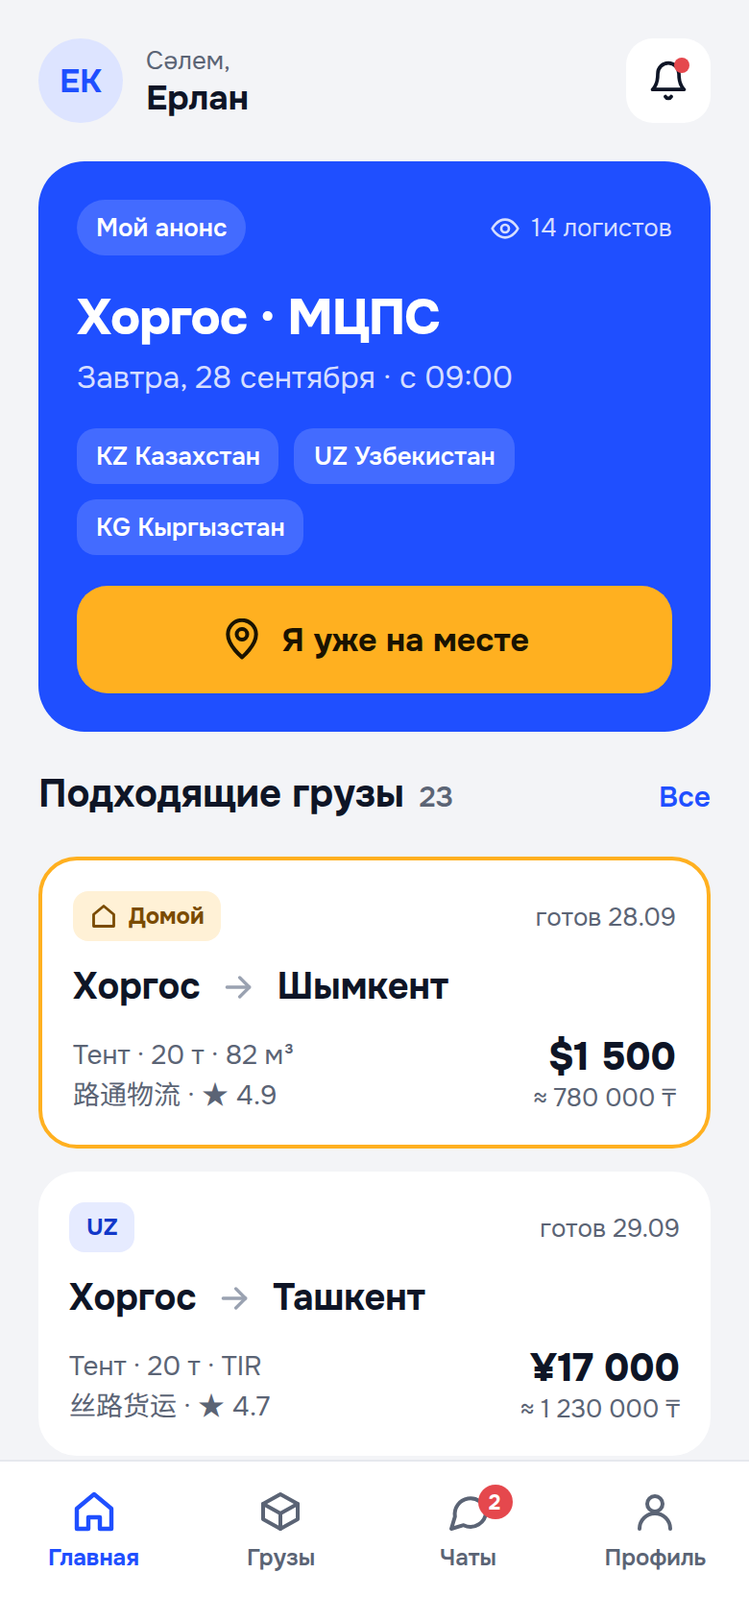
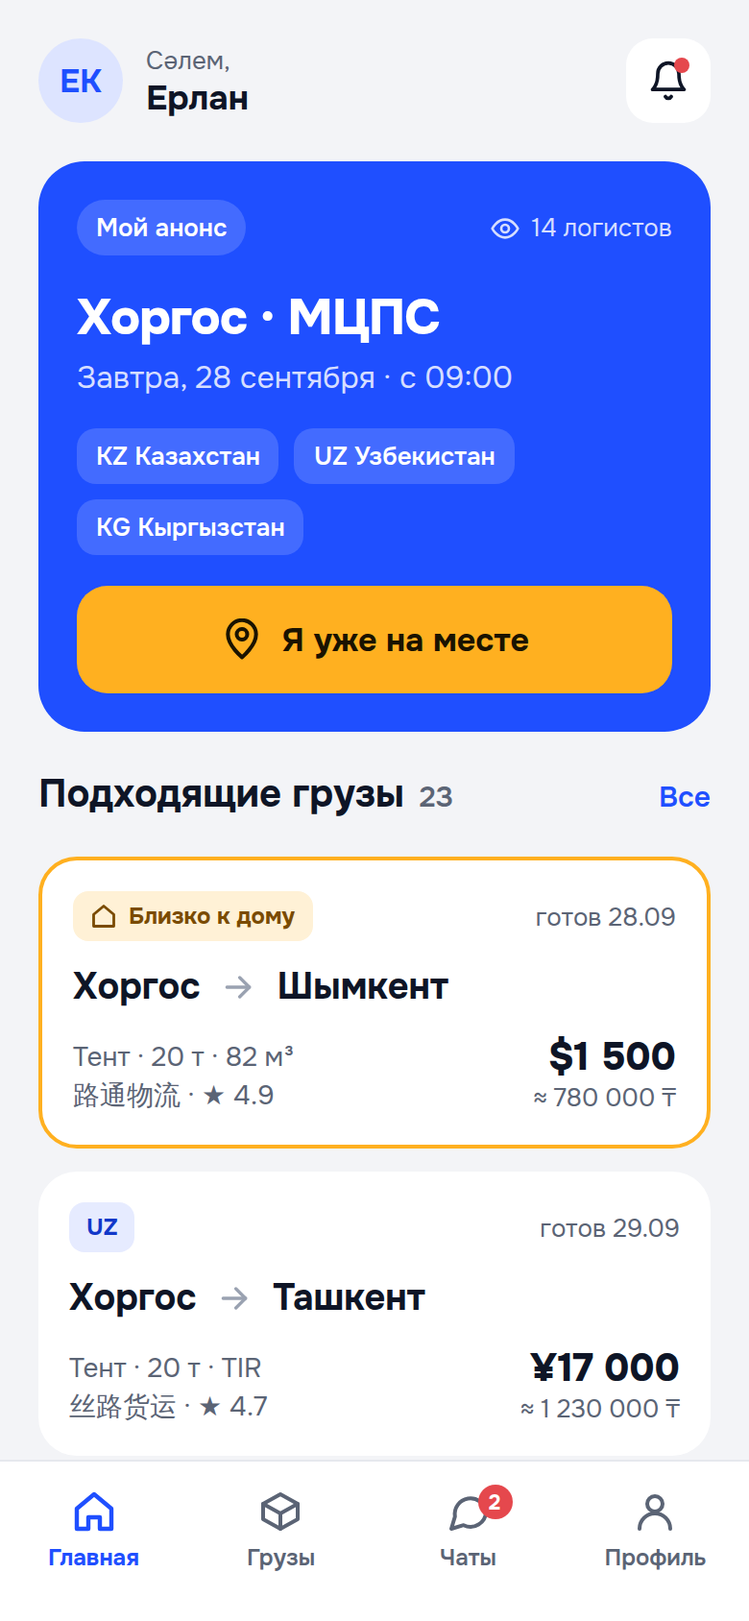
Rename feed section «Домой» → «Близко к дому» (ARB kk/ru/zh, docs, mockup 01)
Claude-Session: https://claude.ai/code/session_01Ff8oopsZvobH79mMVJKnFv

diff --git a/packages/lubao_core/lib/src/widgets/cargo_card.dart b/packages/lubao_core/lib/src/widgets/cargo_card.dart
@@ -32,10 +32,10 @@ class CargoCard extends StatelessWidget {
   /// "Цена всегда в валюте груза + пересчёт мелким шрифтом").
   final String? secondaryPriceLabel;
 
-  /// Плашка слева сверху — "Домой" или код страны (CountryCode).
+  /// Плашка слева сверху — "Близко к дому" или код страны (CountryCode).
   final Widget? badge;
 
-  /// Рамка accent — карточка "Домой" в ленте.
+  /// Рамка accent — карточка "Близко к дому" в ленте.
   final bool accentBorder;
 
   @override

diff --git a/docs/tasks/016-driver-feed-home.md b/docs/tasks/016-driver-feed-home.md
@@ -4,7 +4,7 @@
 
 ## Проблема (ревью 2026-10-04)
 - `GET /cargos` отдаёт **все** опубликованные грузы, сортировка — на клиенте (`sortCargoFeed`). С ростом числа грузов это медленно и тяжело для мобильного интернета на границе.
-- «Домой» считается по **стране**: для казахстанского водителя все грузы в Казахстан — «домой». Нужно — по **области** домашнего города **или ближе 200 км в той же стране** (решения 2026-10-04 и 2026-10-05).
+- «Близко к дому» считается по **стране**: для казахстанского водителя все грузы в Казахстан — «домой». Нужно — по **области** домашнего города **или ближе 200 км в той же стране** (решения 2026-10-04 и 2026-10-05).
 - Грузы с допусками, которых нет у водителя (ADR, TIR, разрешение РФ), не скрываются: у `Cargo` вообще нет поля «нужные допуски».
 - Не учитываются кузов и тоннаж водителя.
 - Вкладки водителя: Лента · Сделки · Профиль. По макету — **Главная · Грузы · Чаты · Профиль**; главной с анонсом (макет 01) и вкладки «Чаты» нет.
@@ -15,7 +15,7 @@
 1. `Cargo.requiredPermitIds` (допуски, нужные для груза) — логист отмечает при публикации.
 2. `GET /cargos/feed` для водителя (пагинация, 20 на страницу):
    - **скрыть**: грузы, требующие допусков, которых нет у водителя; кузов не совпадает с кузовом машины; вес груза больше грузоподъёмности;
-   - **секции**: 🏠 «Домой» (город назначения **в той же области**, что и домашний город водителя — `City.regionId`, **или в той же стране и ближе `homeRadiusKm` = 200 км** по прямой (haversine по `City.lat/lng`, только если координаты есть у обоих городов); если у груза указана только страна — не «Домой»; внутри секции ближние выше, затем дата готовности) → «Ваши страны» (`tripCountryIds` активного анонса, иначе страны профиля; `anyCountry` — все) → «Другие» (серым, внизу);
+   - **секции**: 🏠 «Близко к дому» (город назначения **в той же области**, что и домашний город водителя — `City.regionId`, **или в той же стране и ближе `homeRadiusKm` = 200 км** по прямой (haversine по `City.lat/lng`, только если координаты есть у обоих городов); если у груза указана только страна — не «Близко к дому»; внутри секции ближние выше, затем дата готовности) → «Ваши страны» (`tripCountryIds` активного анонса, иначе страны профиля; `anyCountry` — все) → «Другие» (серым, внизу);
    - внутри секции: дата готовности ↑, затем свежесть публикации;
    - в ответе — секция каждого груза и пересчёт цены в KZT (и в валюту, выбранную водителем, по умолчанию KZT) по курсу НБ РК (задача 018).
 2а. Координаты городов: заполнить `lat/lng` всем городам из `seed.ts` (сейчас пусто) — миграция данных, не только сид, чтобы существующие базы тоже получили координаты. Новый город при модерации (021) — админ указывает координаты (необязательно; без них работает только правило области). `app_settings.homeRadiusKm = 200` + поле в админке.
@@ -24,15 +24,18 @@
 ### Flutter
 4. Вкладки водителя: **Главная · Грузы · Чаты · Профиль** (макет 01).
 5. **Главная**: карточка анонса (из 015) + «Подходящие грузы · N» — первые 5 из ленты с секциями; «Все» → вкладка «Грузы».
-6. **Карточка груза** (`CargoCard`, макет 01): 🏠 «Домой» в янтарной рамке; маршрут крупно; кузов · вес · объём; компания + ★; цена крупно + «≈ … ₸».
+6. **Карточка груза** (`CargoCard`, макет 01): 🏠 «Близко к дому» в янтарной рамке; маршрут крупно; кузов · вес · объём; компания + ★; цена крупно + «≈ … ₸».
 7. **Вкладка «Чаты»**: список чатов водителя (задача 017), бейдж непрочитанных.
 8. Офлайн: последняя загруженная лента показывается без сети с пометкой «обновлено N мин назад».
 
 ## Готово, когда
 - Водитель без ADR не видит грузы, требующие ADR (тест API).
-- Водитель из Жаркента видит грузы в Жаркент и Талдыкорган (та же область) в секции «Домой», а груз в Алматы (~300 км, другой регион) — в «Ваших странах».
-- Водитель из Алматы видит «Домой» грузы в Каскелен и Талгар (другая область, < 200 км).
-- Водитель из Шымкента не видит «Домой» груз в Ташкент (другая страна, хотя ~120 км).
-- Город без координат: «Домой» работает по области, без ошибок.
+- Водитель из Жаркента видит грузы в Жаркент и Талдыкорган (та же область) в секции «Близко к дому», а груз в Алматы (~300 км, другой регион) — в «Ваших странах».
+- Водитель из Алматы видит «Близко к дому» грузы в Каскелен и Талгар (другая область, < 200 км).
+- Водитель из Шымкента не видит «Близко к дому» груз в Ташкент (другая страна, хотя ~120 км).
+- Город без координат: «Близко к дому» работает по области, без ошибок.
 - Лента открывается одной страницей ≤ 20 грузов, следующая — при прокрутке.
 - Главная и вкладки совпадают с макетом 01.
+
+
+> 2026-10-05: секция называется **«Близко к дому»** (kk «Үйге жақын», zh «离家近», en «Near home»), не «Домой». ARB уже обновлён.

diff --git a/docs/decisions.md b/docs/decisions.md
@@ -59,12 +59,12 @@
 Самостоятельная регистрация: «Создать компанию» (email + код на почту, пароль, имя, компания) или «У меня приглашение» (ссылка от владельца). Владелец имеет все права логиста — компания из одного человека полноценная. Админ тоже может создать компанию и пригласить владельца (удобно на пилоте). Дубль по рег. номеру не создаётся. Почтовый провайдер должен доставлять в qq.com / 163.com (рассмотреть Alibaba DirectMail), проверка доставки — до пилота.
 Почему: в коде регистрации компаний не было вовсе — новый логист не мог попасть в Lubao.
 
-**«Домой» = та же область ИЛИ ближе 200 км от домашнего города (в той же стране).** (задача 016, уточнено 2026-10-05)
-Груз попадает в секцию 🏠 «Домой», если город назначения: (а) в той же области (`regionId`), что и домашний город водителя, или (б) в той же стране и ближе 200 км по прямой (координаты обоих городов известны). Внутри «Домой» — ближние выше. Водителю ничего настраивать не нужно; радиус — `app_settings.homeRadiusKm` (200), меняется в админке.
-Почему: одной области мало — Алматы, Астана, Шымкент в справочнике отдельные регионы, и водитель из Алматы не увидел бы «домой» Каскелен или Талгар. Чистый радиус тоже плох: у городов, добавленных водителями, нет координат, а через границу 200 км цепляют Кыргызстан/Узбекистан (Шымкент — Ташкент ~120 км). Поэтому область — основа (есть всегда), радиус — добавка внутри страны.
+**«Близко к дому» = та же область ИЛИ ближе 200 км от домашнего города (в той же стране).** (задача 016, уточнено 2026-10-05)
+Груз попадает в секцию 🏠 «Близко к дому», если город назначения: (а) в той же области (`regionId`), что и домашний город водителя, или (б) в той же стране и ближе 200 км по прямой (координаты обоих городов известны). Внутри секции — ближние выше. Водителю ничего настраивать не нужно; радиус — `app_settings.homeRadiusKm` (200), меняется в админке.
+Название — «Близко к дому», а не «Домой»: груз не обязательно ровно в домашний город, а рядом (решение 2026-10-05). Почему правило: одной области мало — Алматы, Астана, Шымкент в справочнике отдельные регионы, и водитель из Алматы не увидел бы «домой» Каскелен или Талгар. Чистый радиус тоже плох: у городов, добавленных водителями, нет координат, а через границу 200 км цепляют Кыргызстан/Узбекистан (Шымкент — Ташкент ~120 км). Поэтому область — основа (есть всегда), радиус — добавка внутри страны.
 
 **Город водителя: поиск по всем языкам + «Нет моего города».** (задача 021)
-Поиск города не зависит от языка интерфейса (kk/ru/zh/en, транслитерация). Если города нет в справочнике — свободный ввод + обязательный выбор области; город уходит админу на модерацию, а регистрация продолжается. Для «Домой» такой город сопоставляется по области. Почему: водитель из маленького города не должен застревать на регистрации.
+Поиск города не зависит от языка интерфейса (kk/ru/zh/en, транслитерация). Если города нет в справочнике — свободный ввод + обязательный выбор области; город уходит админу на модерацию, а регистрация продолжается. Для «Близко к дому» такой город сопоставляется по области. Почему: водитель из маленького города не должен застревать на регистрации.
 
 **Отложено до готовности приложения: размещение для Китая.**
 Вопрос владельца: держать всё в Гонконге, а данные водителей в РК? Предварительный ответ: не разделять базы (главный экран логиста — список водителей, задержка не уйдёт; данные сделок и чатов общие; закон РК и PIPL). Предложенная схема «склад в РК, витрина в Гонконге»: CDN в Гонконге для статики без ПДн + при необходимости прокси без хранения, единая база в РК. Решение принять после замера из Китая (задача 020, п. 17). Без юридической проверки не внедрять.

diff --git a/docs/tasks/021-any-language-input-city.md b/docs/tasks/021-any-language-input-city.md
@@ -99,7 +99,7 @@
 
 ### Город, которого нет в справочнике
 4. Последний пункт списка: **«Нет моего города»** → поле «Населённый пункт» (свободный ввод, любой язык) + выбор **области/региона** из справочника (обязательно). Сохраняется как город со статусом `PENDING` (`City.isUserSubmitted = true`, `submittedByUserId`), привязанный к выбранному региону — регистрация сразу продолжается.
-   - Для ленты «Домой» такой город сопоставляется по региону, пока админ не подтвердит.
+   - Для ленты «Близко к дому» такой город сопоставляется по региону, пока админ не подтвердит.
    - Админка → справочники: очередь «Новые города от пользователей» — подтвердить (добавить переводы kk/ru/zh/en), объединить с существующим (перепривязать водителей), отклонить.
 5. Расширить seed: все районные центры и города Казахстана (≈ 200, с переводами kk/ru/zh/en), крупные города Узбекистана, Кыргызстана, Таджикистана, Туркменистана, России (по маршрутам из Хоргоса), Китая (Синьцзян). Не придумывать переводы — для zh/en можно оставить пустыми, тогда показывается ru.
 

diff --git a/docs/tasks/019-cargo-posting-complaints.md b/docs/tasks/019-cargo-posting-complaints.md
@@ -6,7 +6,7 @@
 `post_cargo_screen.dart` умеет: назначение, кузов, объём, вес, цена + валюта, дата, фото. Нет:
 1. **Точки погрузки** (терминал Хоргоса) — сейчас грузу не выбрать терминал в форме.
 2. **Нужных допусков** (`requiredPermitIds`, задача 016) — чипами TIR / CMR / ADR / разрешение РФ.
-3. **Город назначения** — сделать обязательным для KZ (нужен для секции «Домой»), для других стран — по желанию.
+3. **Город назначения** — сделать обязательным для KZ (нужен для секции «Близко к дому»), для других стран — по желанию.
 4. **«Повторить груз»** — копия прошлого груза с новой датой (логисты возят одни и те же направления).
 5. Подсказка цены: «Похожие грузы Хоргос → Ташкент за 30 дней: ¥15 000–18 000» (по своим данным, когда их ≥ 5).
 6. Блокировка публикации для непроверенной компании и сбор недостающих полей (задача 012).

diff --git a/design/DESIGN.md b/design/DESIGN.md
@@ -13,9 +13,9 @@
 | primary | #1F4FFF | главные кнопки, активные элементы, карточка анонса |
 | primaryPressed | #1238C9 | нажатие, текст на светло-синем |
 | primarySoft | #E6EBFF | выбранные плашки, фон иконок-кнопок |
-| accent | #FFB020 | ОДНО ключевое действие экрана («Я на месте», «Опубликовать груз», «Подтверждаю»), рамка груза «Домой» |
+| accent | #FFB020 | ОДНО ключевое действие экрана («Я на месте», «Опубликовать груз», «Подтверждаю»), рамка груза «Близко к дому» |
 | onAccent | #1A1300 | текст на accent |
-| accentSoft | #FFF1D6 | плашка «Домой», «Мой дом» |
+| accentSoft | #FFF1D6 | плашка «Близко к дому», «Мой дом» |
 | accentText | #7A4B00 | текст на accentSoft |
 | success | #11652E / фон #E3F5E8 | «На месте», «TIR есть» |
 | error | #E5484D | бейджи непрочитанного |

diff --git a/docs/testing/smoke-test.md b/docs/testing/smoke-test.md
@@ -33,7 +33,7 @@ pnpm dev:backend
 | A3 | Шаг 1: имя «Ерлан Қасымов», город «Шым…» → Шымкент, «Далее» | Переход на «Шаг 2 из 3» | |
 | A4 | Шаг 2: кузов, грузоподъёмность, «Далее» | Переход на «Шаг 3 из 3» | |
 | A5 | Шаг 3: страны (KZ, UZ), «Сохранить и продолжить» | Попали на ленту грузов | |
-| A6 | Лента | Грузы разбиты на секции «Домой / Ваши страны / Другие» | |
+| A6 | Лента | Грузы разбиты на секции «Близко к дому / Ваши страны / Другие» | |
 | A7 | «Я на месте» (отметиться) | Появилась карточка «вы на точке» | |
 | A8 | Открыть груз → «Позвонить» / WhatsApp | Открылась звонилка / WhatsApp | |
 | A9 | «Откликнуться» на груз | Отклик отправлен, кнопка сменила состояние | |
